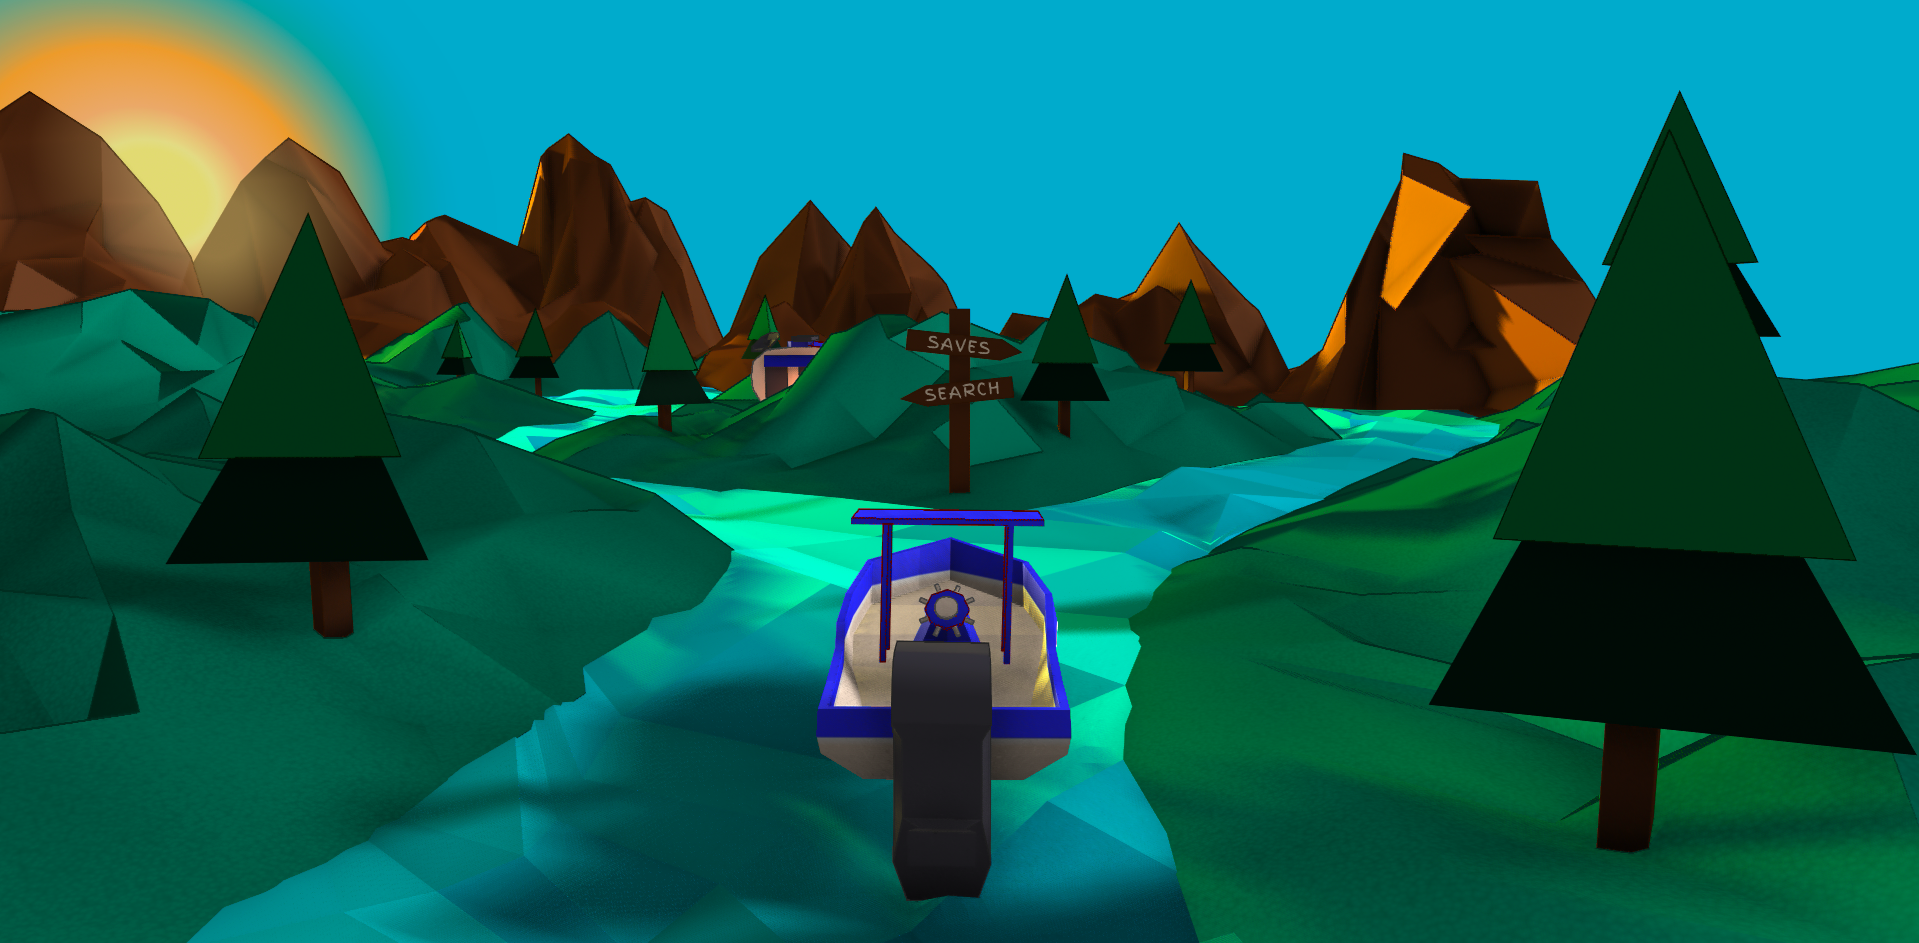
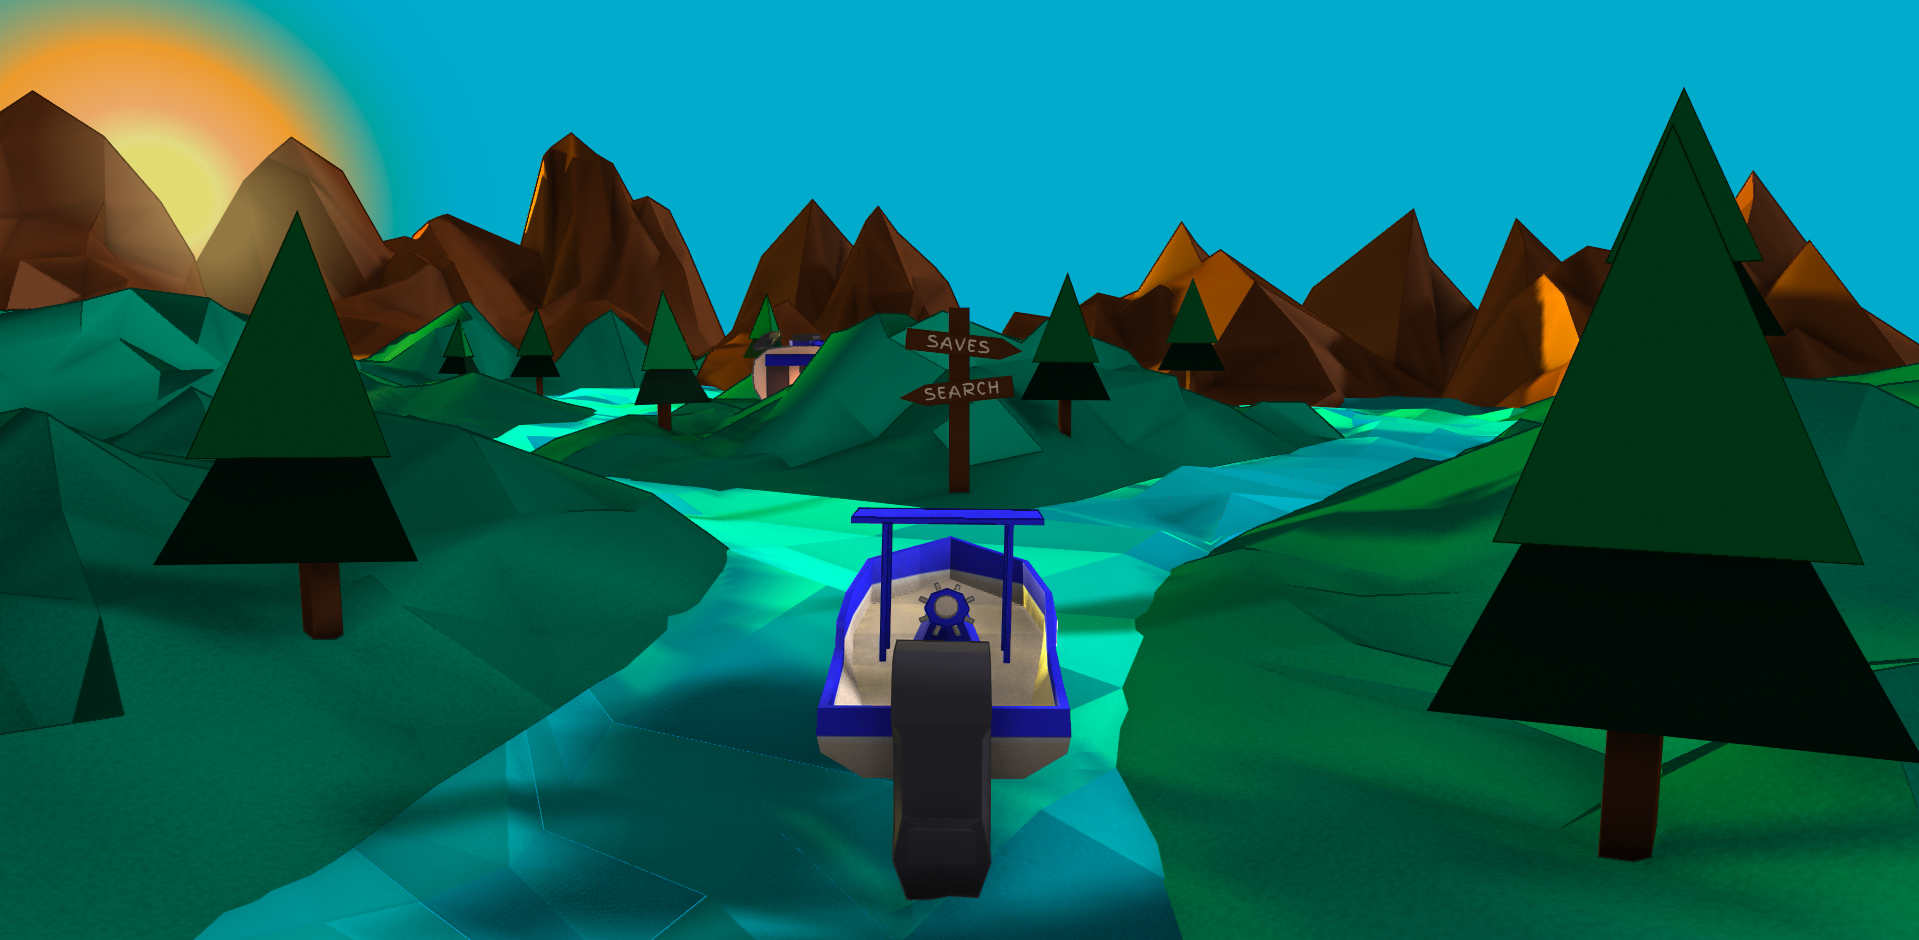
remodel mountains and update README.md

diff --git a/main_app/templates/home.html b/main_app/templates/home.html
@@ -16,9 +16,9 @@
 
 <script
   type="module"
-  src="https://unpkg.com/@splinetool/viewer@1.10.63/build/spline-viewer.js"
+  src="https://unpkg.com/@splinetool/viewer@1.10.64/build/spline-viewer.js"
 ></script>
 <spline-viewer
-  url="https://prod.spline.design/FEPluclmTi6DYUir/scene.splinecode"
+  url="https://prod.spline.design/2XYzLFp8t9egvKBK/scene.splinecode"
 ></spline-viewer>
 {% endblock %}
